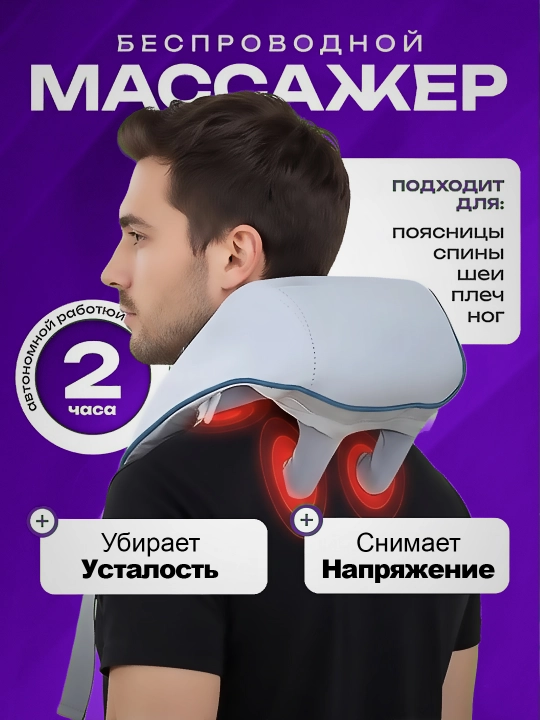
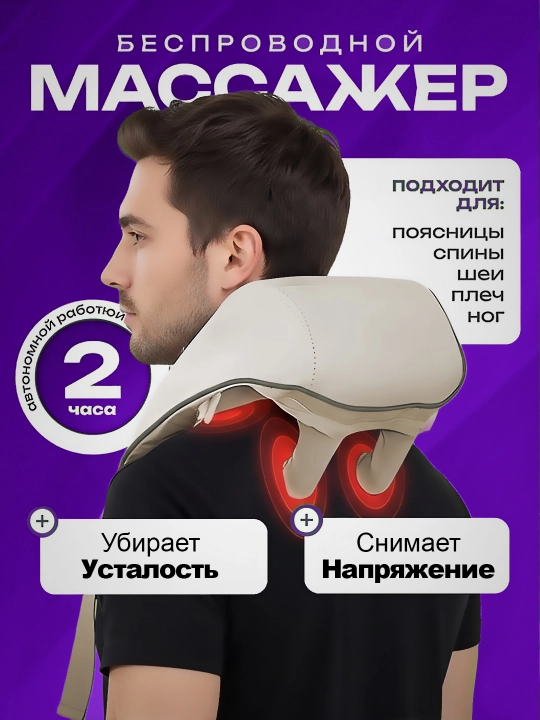
Массажёр: бежевый вариант (фото и ссылки Uzum sku 7017618, WB 822776108)

diff --git a/massajyor/index.html b/massajyor/index.html
@@ -3,9 +3,9 @@
 <head>
 <meta charset="utf-8">
 <meta name="viewport" content="width=device-width, initial-scale=1">
-<title>Bo‘yin va yelka uchun simsiz massajyor</title>
+<title>Bo‘yin va yelka uchun simsiz massajyor, bej rang</title>
 <meta name="description" content="3 rejim, isitish funksiyasi, zaryad bilan ishlaydi.">
-<meta property="og:title" content="Bo‘yin va yelka uchun simsiz massajyor">
+<meta property="og:title" content="Bo‘yin va yelka uchun simsiz massajyor, bej rang">
 <meta property="og:description" content="3 rejim, isitish funksiyasi, zaryad bilan ishlaydi.">
 <meta property="og:image" content="1.jpg">
 <link rel="stylesheet" href="../style.css">
@@ -13,13 +13,13 @@
 <body>
 <main class="card">
   <div class="gallery" id="g">
-    <img src="1.jpg" alt="Bo‘yin va yelka uchun simsiz massajyor" width="540" height="720">
-    <img src="2.jpg" alt="Bo‘yin va yelka uchun simsiz massajyor" loading="lazy" width="540" height="720">
-    <img src="3.jpg" alt="Bo‘yin va yelka uchun simsiz massajyor" loading="lazy" width="540" height="720">
-    <img src="4.jpg" alt="Bo‘yin va yelka uchun simsiz massajyor" loading="lazy" width="540" height="720">
+    <img src="1.jpg" alt="Bo‘yin va yelka uchun simsiz massajyor, bej rang" width="540" height="720">
+    <img src="2.jpg" alt="Bo‘yin va yelka uchun simsiz massajyor, bej rang" loading="lazy" width="540" height="720">
+    <img src="3.jpg" alt="Bo‘yin va yelka uchun simsiz massajyor, bej rang" loading="lazy" width="540" height="720">
+    <img src="4.jpg" alt="Bo‘yin va yelka uchun simsiz massajyor, bej rang" loading="lazy" width="540" height="720">
   </div>
   <div class="dots"><i class="on"></i><i></i><i></i><i></i></div>
-  <h1>Bo‘yin va yelka uchun simsiz massajyor</h1>
+  <h1>Bo‘yin va yelka uchun simsiz massajyor, bej rang</h1>
   <ul class="facts">
     <li>Simsiz — zaryadlanadi, taxminan 2 soat ishlaydi</li>
     <li>3 ta massaj rejimi va isitish</li>
@@ -27,8 +27,8 @@
   </ul>
   <p class="label">Qayerdan buyurtma berish</p>
   <div class="buttons">
-    <a class="btn main" href="https://uzum.uz/uz/product/besprovodnoj-massazher-dlya-1983410" rel="nofollow">Uzum Market — Ireezq</a>
-    <a class="btn" href="https://www.wildberries.ru/catalog/822789142/detail.aspx" rel="nofollow">Wildberries</a>
+    <a class="btn main" href="https://uzum.uz/uz/product/besprovodnoj-massazher-dlya-1983410?skuId=7017618" rel="nofollow">Uzum Market — Ireezq</a>
+    <a class="btn" href="https://www.wildberries.ru/catalog/822776108/detail.aspx" rel="nofollow">Wildberries</a>
   </div>
   <p class="foot"><a href="../privacy/">Maxfiylik siyosati</a></p>
 </main>
